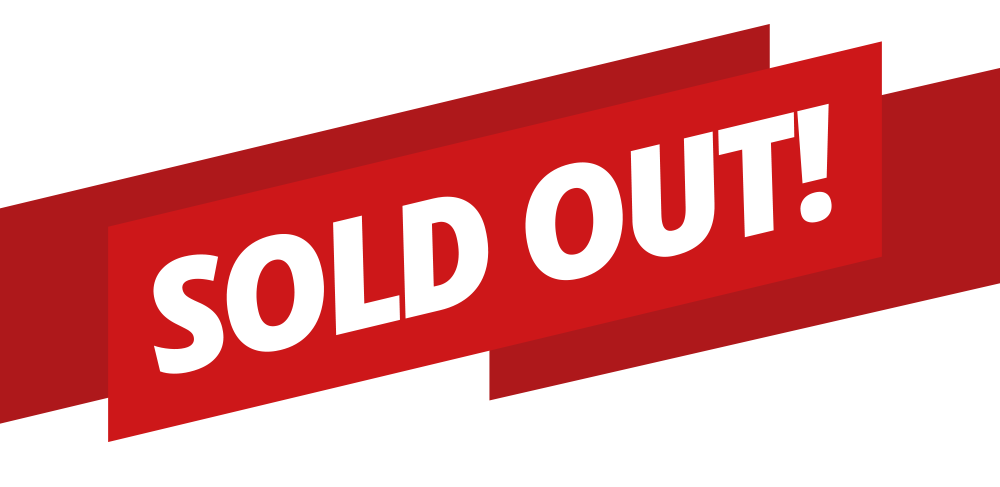
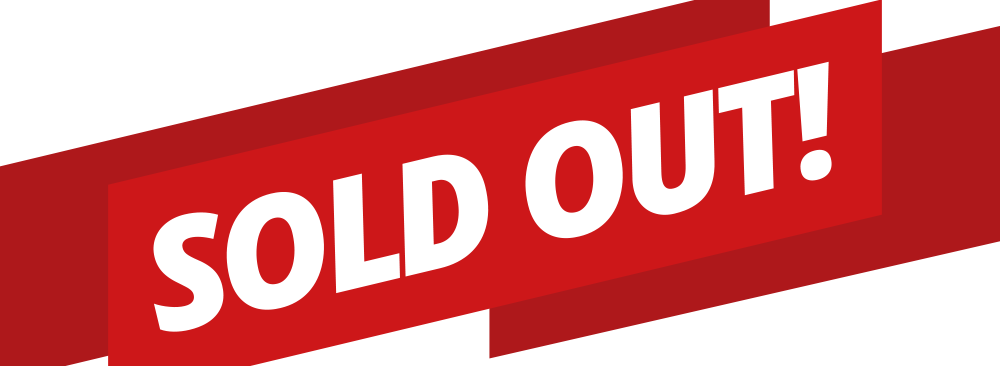
shop by price popup issue fixed

diff --git a/pages/shopby/pricerange/[min]/[max]/index.js b/pages/shopby/pricerange/[min]/[max]/index.js
@@ -14,7 +14,7 @@ function PriceRangePage() {
   const router = useRouter();
   const { min, max } = router.query;
   const { selectedSearchCity } = useAuthState();
-  const [shopByPriceBestDeal, setShopByPriceBestDeal] = useState();
+  const [shopByPriceBestDeal, setShopByPriceBestDeal] = useState([]);
   const [shopByPriceOtherListings, setShopByPriceOtherListings] = useState([]);
   const [applyFilter, setApplyFilter] = useState();
   const [applySortFilter, setSortApplyFilter] = useState();
@@ -38,7 +38,7 @@ function PriceRangePage() {
         (response) => {
           setShopByPriceBestDeal(response?.dataObject?.bestDeals);
           setShopByPriceOtherListings(response?.dataObject?.otherListings);
-          setTotalProducts(response?.dataObject?.totalProducts - response?.dataObject?.bestDeals);
+          setTotalProducts(response?.dataObject?.totalProducts - response?.dataObject?.bestDeals.length);
           setLoading(false);
         },
         (err) => console.error(err)
@@ -71,7 +71,7 @@ function PriceRangePage() {
 
           if (response?.dataObject?.totalProducts > -1) {
             setTotalProducts(
-              (response && response?.dataObject?.totalProducts - response?.dataObject?.bestDeals) || 0
+              (response && response?.dataObject?.totalProducts - response?.dataObject?.bestDeals.length) || 0
             );
           }
           // setShopByPriceOtherListings(response?.dataObject?.otherListings);
@@ -102,6 +102,7 @@ function PriceRangePage() {
           minsellingPrice: min,
           reqPage: "SBYP",
           make: [],
+          marketingName: [],
           color: [],
           deviceCondition: [],
           deviceRam: [],
@@ -135,8 +136,8 @@ function PriceRangePage() {
           pageNumber
         ).then((response) => {
           setShopByPriceOtherListings(response?.dataObject?.otherListings);
-          setTotalProducts(response?.dataObject?.totalProducts - response?.dataObject?.bestDeals);
-          setShopByPriceBestDeal([]);
+          setTotalProducts(response?.dataObject?.totalProducts - response?.dataObject?.bestDeals.length);
+          setShopByPriceBestDeal(response?.dataObject?.bestDeals);
           // setLoading(false);
         });
       }
@@ -177,7 +178,7 @@ function PriceRangePage() {
       {(isLoading || sortingProducts?.length > 0) && (
         <h2 className="text-lg font-semibold text-black-4e p-2 pl-0 mt-3">
           {" "}
-          Other Listings ({sortingProducts?.length}){" "}
+          Other Listings ({totalProducts}){" "}
         </h2>
       )}
       {isLoading ? (
@@ -201,9 +202,7 @@ function PriceRangePage() {
       )}
 
       {!isLoading &&
-        sortingProducts &&
-        sortingProducts.length > 0 &&
-        isFinished == false && (
+        isFinished == false && shopByPriceOtherListings.length != totalProducts && (
           <span
             className={`${isLoadingMore ? "w-[250px]" : "w-[150px]"
               } rounded-md shadow hover:drop-shadow-lg p-4 bg-m-white flex justify-center items-center hover:cursor-pointer my-5`}

diff --git a/pages/shopby/category/[categoryType]/index.js b/pages/shopby/category/[categoryType]/index.js
@@ -67,7 +67,7 @@ function CategoryPage() {
 
           if (response?.dataObject?.totalProducts > -1) {
             setTotalProducts(
-              (response && response?.dataObject?.totalProducts - response?.dataObject?.bestDeals) || 0
+              (response && response?.dataObject?.totalProducts - response?.dataObject?.bestDeals.length) || 0
             );
           }
 
@@ -111,7 +111,7 @@ function CategoryPage() {
 
           if (response?.dataObject?.totalProducts > -1) {
             setTotalProducts(
-              (response && response?.dataObject?.totalProducts - response?.dataObject?.bestDeals) || 0
+              (response && response?.dataObject?.totalProducts - response?.dataObject?.bestDeals.length) || 0
             );
           }
 
@@ -191,7 +191,7 @@ function CategoryPage() {
         ).then((response) => {
           setOtherListings(response?.dataObject?.otherListings);
           // setBestDeals([]);
-          setTotalProducts(response?.dataObject?.totalProducts - response?.dataObject?.bestDeals);
+          setTotalProducts(response?.dataObject?.totalProducts - response?.dataObject?.bestDeals.length);
           setBestDeals(response?.dataObject?.bestDeals);
         });
       }
@@ -308,10 +308,10 @@ function CategoryPage() {
                 <div
                   key={item.listingId}
                   className="m-1.5"
-                  // onClick={() => {
-                  //   // setListingId(item.listingId);
-                  //   setProductsData(otherListings);
-                  // }}
+                // onClick={() => {
+                //   // setListingId(item.listingId);
+                //   setProductsData(otherListings);
+                // }}
                 >
                   <OtherListingCard
                     data={item}
@@ -330,9 +330,8 @@ function CategoryPage() {
         {!isLoading &&
           isFinished === false && otherListings.length != totalProducts && (
             <span
-              className={`${
-                isLoadingMore ? "w-[250px]" : "w-[150px]"
-              } rounded-md shadow hover:drop-shadow-lg p-4 bg-m-white flex justify-center items-center hover:cursor-pointer my-5`}
+              className={`${isLoadingMore ? "w-[250px]" : "w-[150px]"
+                } rounded-md shadow hover:drop-shadow-lg p-4 bg-m-white flex justify-center items-center hover:cursor-pointer my-5`}
               onClick={loadMoreData}
             >
               <p className="block text-m-green font-semibold">

diff --git a/pages/product/buy-old-refurbished-used-mobiles/[makeName]/[modelName]/index.js b/pages/product/buy-old-refurbished-used-mobiles/[makeName]/[modelName]/index.js
@@ -48,6 +48,7 @@ function ModelPage() {
         applySortFilter
       ).then(
         (response) => {
+          console.log("response", response);
           if (response.dataObject?.otherListings.length > -1) {
             setOtherListings(
               (response && response?.dataObject?.otherListings) || []
@@ -65,7 +66,7 @@ function ModelPage() {
 
           if (response?.dataObject?.totalProducts > -1) {
             setTotalProducts(
-              (response && response?.dataObject?.totalProducts - response?.dataObject?.bestDeals) || 0
+              (response && response?.dataObject?.totalProducts - response?.dataObject?.bestDeals.length) || 0
             );
           }
           setLoading(false);
@@ -113,7 +114,7 @@ function ModelPage() {
 
           if (response?.dataObject?.totalProducts > -1) {
             setTotalProducts(
-              (response && response?.dataObject?.totalProducts - response?.dataObject?.bestDeals) || 0
+              (response && response?.dataObject?.totalProducts - response?.dataObject?.bestDeals.length) || 0
             );
           }
           setLoading(false);
@@ -192,7 +193,7 @@ function ModelPage() {
         ).then((response) => {
           setOtherListings(response?.dataObject?.otherListings);
           // setBestDeals([]);
-          setTotalProducts(response?.dataObject?.totalProducts - response?.dataObject?.bestDeals);
+          setTotalProducts(response?.dataObject?.totalProducts - response?.dataObject?.bestDeals.length);
           setBestDeals(response?.dataObject?.bestDeals);
           // setLoading(false);
         });
@@ -259,9 +260,8 @@ function ModelPage() {
       {!loading &&
         isFinished == false && otherListings.length != totalProducts && (
           <span
-            className={`${
-              isLoadingMore ? "w-[250px]" : "w-[150px]"
-            } rounded-md shadow hover:drop-shadow-lg p-4 bg-m-white flex justify-center items-center hover:cursor-pointer my-5`}
+            className={`${isLoadingMore ? "w-[250px]" : "w-[150px]"
+              } rounded-md shadow hover:drop-shadow-lg p-4 bg-m-white flex justify-center items-center hover:cursor-pointer my-5`}
             onClick={loadMoreData}
           >
             <p className="block text-m-green font-semibold">

diff --git a/pages/product/buy-old-refurbished-used-mobiles/bestdealnearyou.js b/pages/product/buy-old-refurbished-used-mobiles/bestdealnearyou.js
@@ -47,7 +47,7 @@ function Bestdealnearyou() {
       ).then((response) => {
         setProducts(response?.dataObject?.otherListings);
         setBestDeal(response?.dataObject?.bestDeals);
-        setTotalProducts(response?.dataObject?.totalProducts - response?.dataObject?.bestDeals);
+        setTotalProducts(response?.dataObject?.totalProducts - response?.dataObject?.bestDeals.length);
         // setProductsData([
         //   ...response?.dataObject?.otherListings,
         //   ...response?.dataObject?.bestDeals,
@@ -86,7 +86,7 @@ function Bestdealnearyou() {
         }
 
         if (response?.dataObject?.totalProducts > -1) {
-          setTotalProducts(response?.dataObject?.totalProducts - response?.dataObject?.bestDeals);
+          setTotalProducts(response?.dataObject?.totalProducts - response?.dataObject?.bestDeals.length);
         }
         setLoading(false);
         setIsLoadingMore(false);
@@ -156,7 +156,7 @@ function Bestdealnearyou() {
         ).then((response) => {
           setProducts(response?.dataObject?.otherListings);
           // setBestDeal([]);
-          setTotalProducts(response?.dataObject?.totalProducts - response?.dataObject?.bestDeals);
+          setTotalProducts(response?.dataObject?.totalProducts - response?.dataObject?.bestDeals.length);
           setBestDeal(response?.dataObject?.bestDeals);
           // setLoading(false);
         });
@@ -217,9 +217,8 @@ function Bestdealnearyou() {
       {!isLoading &&
         isFinished == false && products.length != totalProducts && (
           <span
-            className={`${
-              isLoadingMore ? "w-[250px]" : "w-[150px]"
-            } rounded-md shadow hover:drop-shadow-lg p-4 bg-m-white flex justify-center items-center hover:cursor-pointer my-5`}
+            className={`${isLoadingMore ? "w-[250px]" : "w-[150px]"
+              } rounded-md shadow hover:drop-shadow-lg p-4 bg-m-white flex justify-center items-center hover:cursor-pointer my-5`}
             onClick={loadMoreData}
           >
             <p className="block text-m-green font-semibold">

diff --git a/components/Popup/ShopByPopup.js b/components/Popup/ShopByPopup.js
@@ -9,11 +9,11 @@ import LoadingStatePopup from "./LoadingStatePopup";
 function ShopByPopup({ open, setOpen }) {
   const router = useRouter();
 
-  const [loadingState, setLoadingState] = useState(false);
+  // const [loadingState, setLoadingState] = useState(false);
 
-  useEffect(() => {
-    setLoadingState(false);
-  }, [router.pathname]);
+  // useEffect(() => {
+  //   setLoadingState(false);
+  // }, [router.pathname]);
 
   const priceRangeData = [
     {
@@ -65,7 +65,7 @@ function ShopByPopup({ open, setOpen }) {
             >
               <p
                 className="bg-gray-200 flex flex-col items-center justify center px-5 py-2 rounded-md hover:cursor-pointer hover:bg-gray-300 active:bg-gray-400 duration-300"
-                onClick={() => setLoadingState(true)}
+              // onClick={() => setLoadingState(true)}
               >
                 {item.bracket}{" "}
                 <span className="font-semibold">{item.text}</span>
@@ -74,7 +74,7 @@ function ShopByPopup({ open, setOpen }) {
           ))}
         </div>
       </Modal2>
-      <LoadingStatePopup open={loadingState} setOpen={setLoadingState} />
+      {/* <LoadingStatePopup open={loadingState} setOpen={setLoadingState} /> */}
     </>
   );
 }

diff --git a/pages/product/buy-old-refurbished-used-mobiles/[makeName]/index.js b/pages/product/buy-old-refurbished-used-mobiles/[makeName]/index.js
@@ -68,7 +68,7 @@ function MakePage() {
 
           if (response?.dataObject?.totalProducts > -1) {
             setTotalProducts(
-              (response && response?.dataObject?.totalProducts - response?.dataObject?.bestDeals) || 0
+              (response && response?.dataObject?.totalProducts - response?.dataObject?.bestDeals.length) || 0
             );
           }
 
@@ -117,7 +117,7 @@ function MakePage() {
           }
           if (response?.dataObject?.totalProducts > -1) {
             setTotalProducts(
-              (response && response?.dataObject?.totalProducts - response?.dataObject?.bestDeals) || 0
+              (response && response?.dataObject?.totalProducts - response?.dataObject?.bestDeals.length) || 0
             );
           }
 
@@ -197,7 +197,7 @@ function MakePage() {
         ).then((response) => {
           setOtherListings(response?.dataObject?.otherListings);
           // setBestDeals([]);
-          setTotalProducts(response?.dataObject?.totalProducts - response?.dataObject?.bestDeals);
+          setTotalProducts(response?.dataObject?.totalProducts - response?.dataObject?.bestDeals.length);
           setBestDeals(response?.dataObject?.bestDeals);
         });
       }

diff --git a/components/Card/OtherListingCard.js b/components/Card/OtherListingCard.js
@@ -56,7 +56,7 @@ function OtherListingCard({ data, setProducts, prodLink }) {
               ) : data?.status === "Sold_Out" ? <Image
                 src={sold_out}
                 width={"50"}
-                height={"50"}
+                height={"20"}
                 objectFit="contain"
               /> : <svg height={20} />}
               <span>

diff --git a/components/Card/NearByDealCard.js b/components/Card/NearByDealCard.js
@@ -36,7 +36,7 @@ function NearByDealCard({ data, setProducts, prodLink }) {
                 ) : data?.status === "Sold_Out" && <Image
                   src={sold_out}
                   width={"50"}
-                  height={"50"}
+                  height={"20"}
                   objectFit="contain"
                 />}
               </span>
